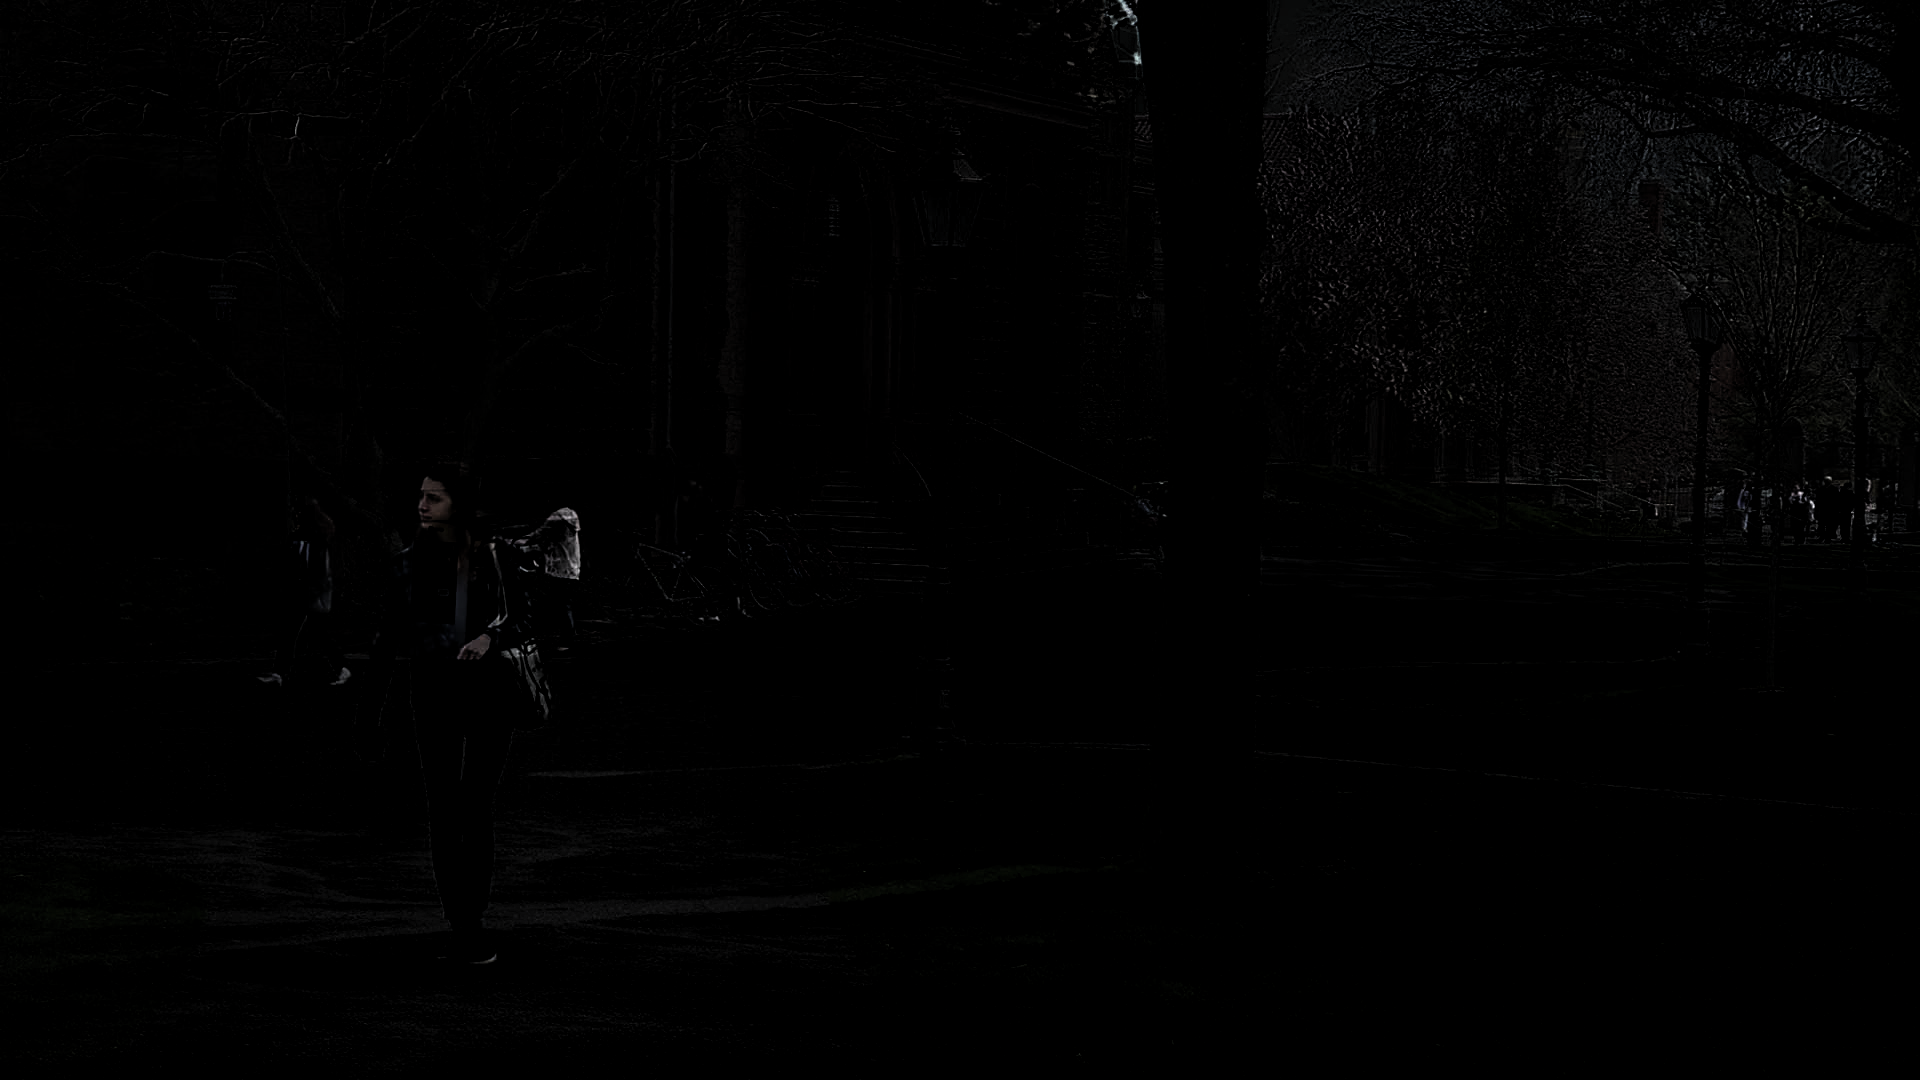
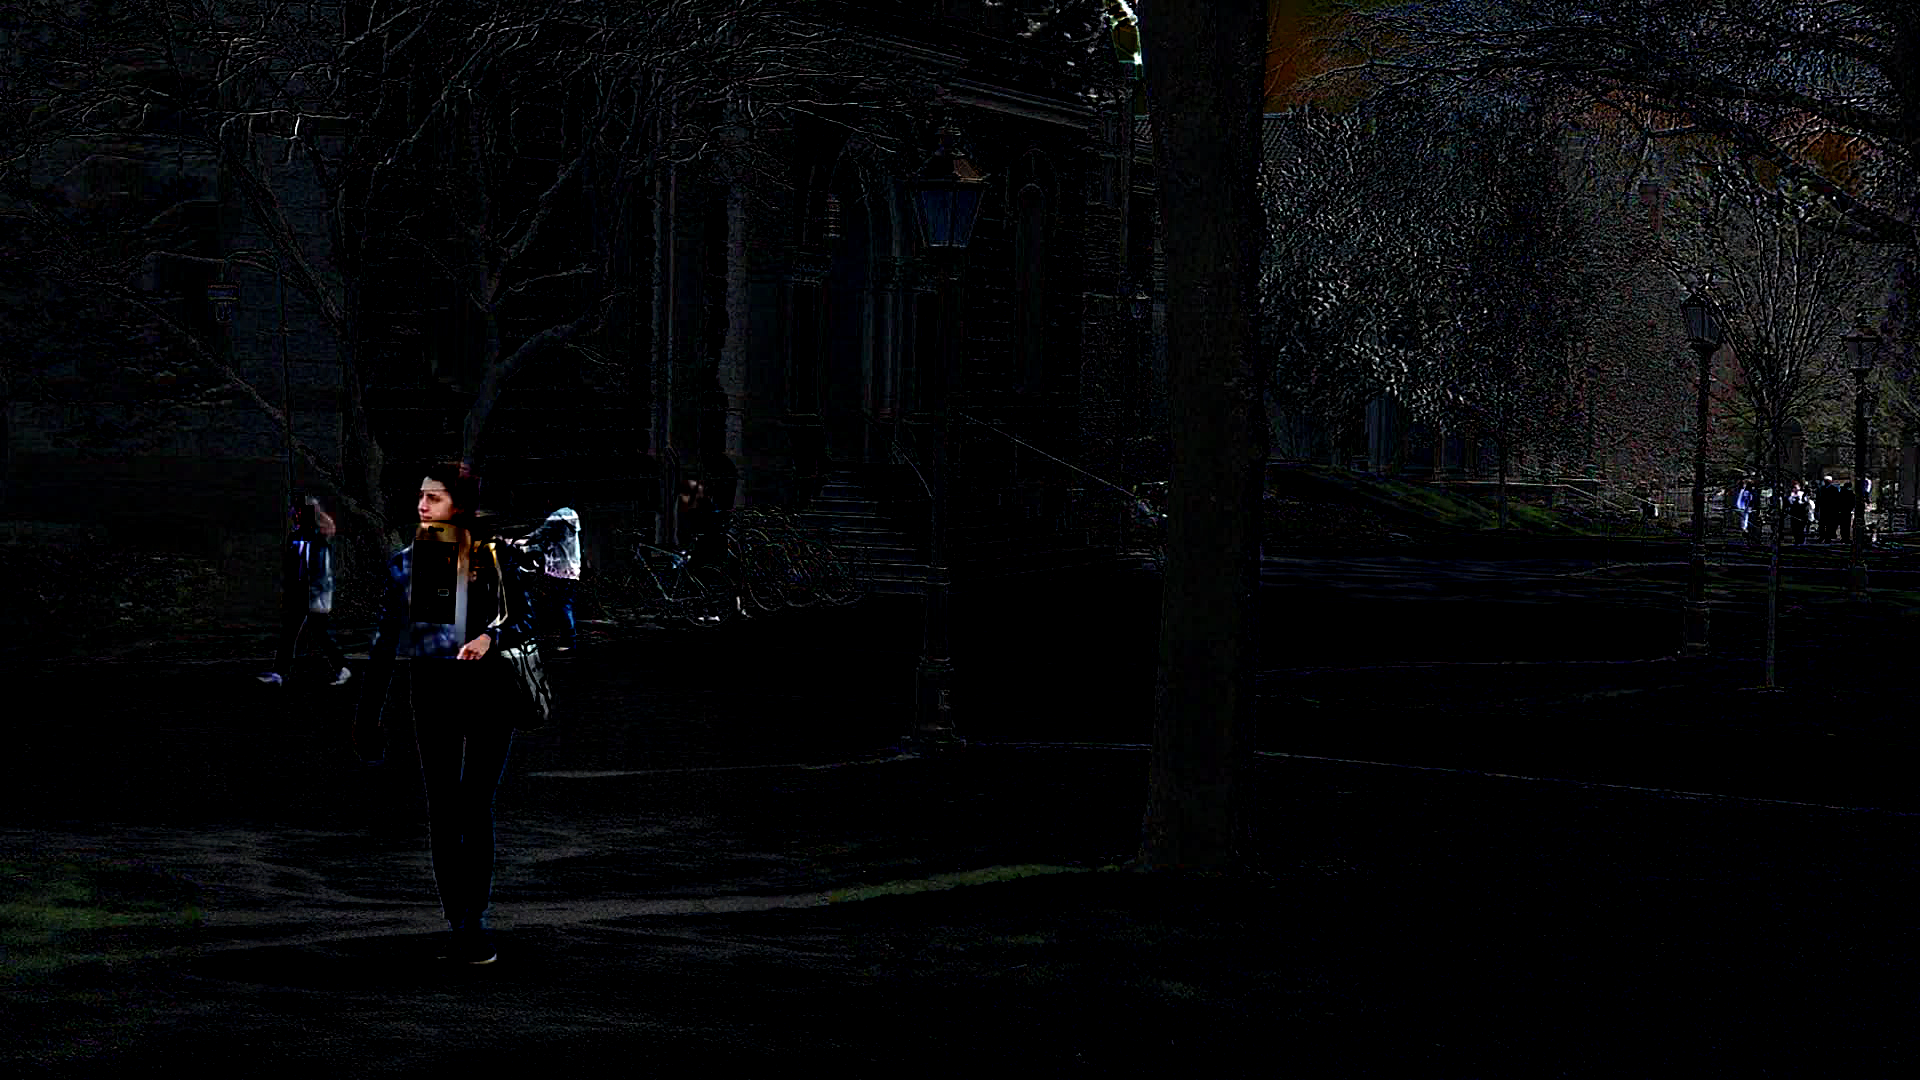
Add masking feature in remove.py

diff --git a/code/remove.py b/code/remove.py
@@ -1,8 +1,7 @@
 import numpy as np
 import os
-import statistics
 from skimage import io
-from scipy import signal, stats
+from scipy import signal
 
 def median_filter(images):
     img_arr = np.array(images)
@@ -10,18 +9,22 @@ def median_filter(images):
     res = np.zeros((w,h,c))
     for i in range(c): # three rgb channels:
         channel = img_arr[:,:,:,i]
+        print(channel)
         res[:,:,i] = signal.medfilt(channel, kernel_size=(n,1,1))[n//2]
+    # print("res")
+    # print(res)
     return np.array(res).astype(int)
 
-def subtract(img0, img1, img2):
-    w,h,c = img0.shape
-    res = np.zeros((w,h, c))
-    channel1 = img1
-    channel2 = img2
-    greyscaleMask = np.array(np.clip(channel1 - channel2, 0, 1))#.astype(int)
+def subtract(img1, img2):
+    w,h,c = img1.shape
+    res = np.zeros((w,h,c))
     for i in range(c):
-        res[:,:,i] = img0[:,:,i] * greyscaleMask + 10
-   return np.array(res).astype(int)
+        channel1 = np.round(img1[:,:,i]).astype(int)
+        channel2 = np.round(img2[:,:,i]).astype(int)
+        res[:,:,i] = (channel1 - channel2) * 2
+        # print(chan100:200,100:200,i])
+    # print(res)
+    return np.array(np.clip(res, 0, 255)).astype(int)
 
 def mode_filter(images):
     img_arr = np.array(images)

diff --git a/code/main.py b/code/main.py
@@ -45,10 +45,10 @@ def main(folder):
     # io.imsave('green.png', median_filter(green_images))
     green_folder = os.path.join(data_dir, "green")
     green_saved = "green.png"
-    img0 = io.imread(os.path.join(green_folder, "009.jpg"))
-    img1 = io.imread(os.path.join(green_folder, "009.jpg"), as_gray=True)
-    img2 = io.imread(green_saved, as_gray=True)
-    io.imsave('hahaha.png', subtract(img0,img1,img2))
+    # img0 = io.imread(os.path.join(green_folder, "009.jpg"))
+    img1 = io.imread(os.path.join(green_folder, "009.jpg"))
+    img2 = io.imread(green_saved)
+    io.imsave('hahaha.png', subtract(img1,img2))
     # img_folder = os.path.join(data_dir, folder)
     # images = []
     # for f in os.listdir(img_folder):
